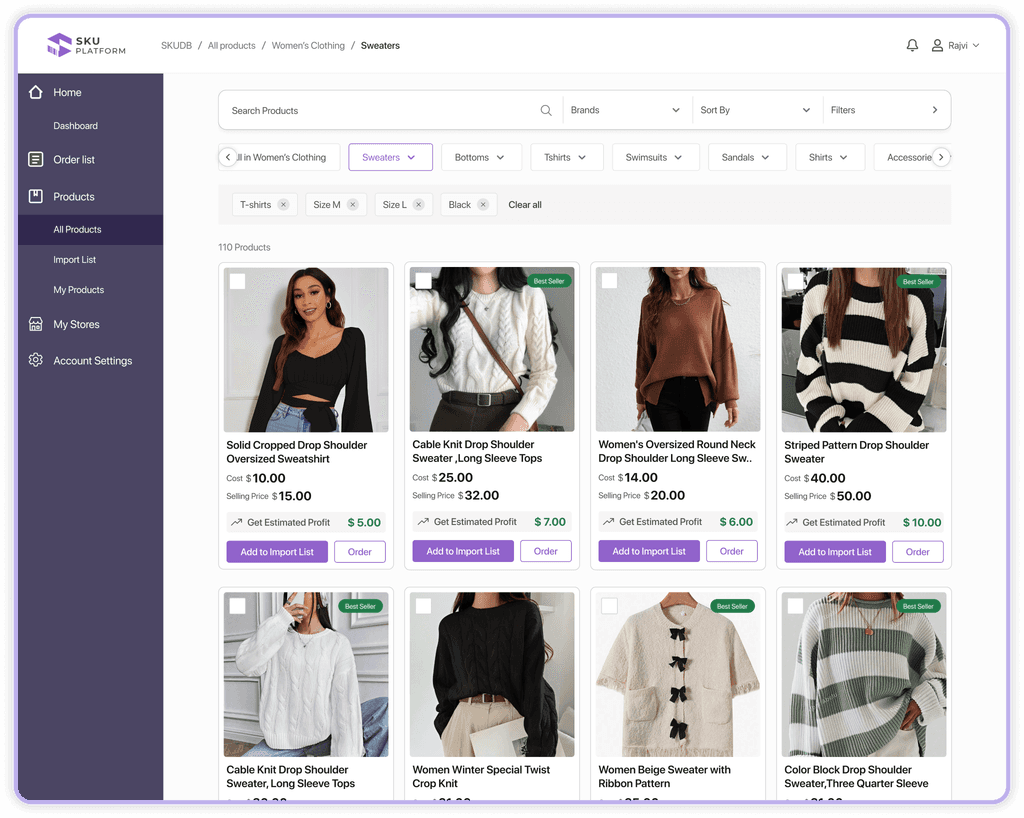
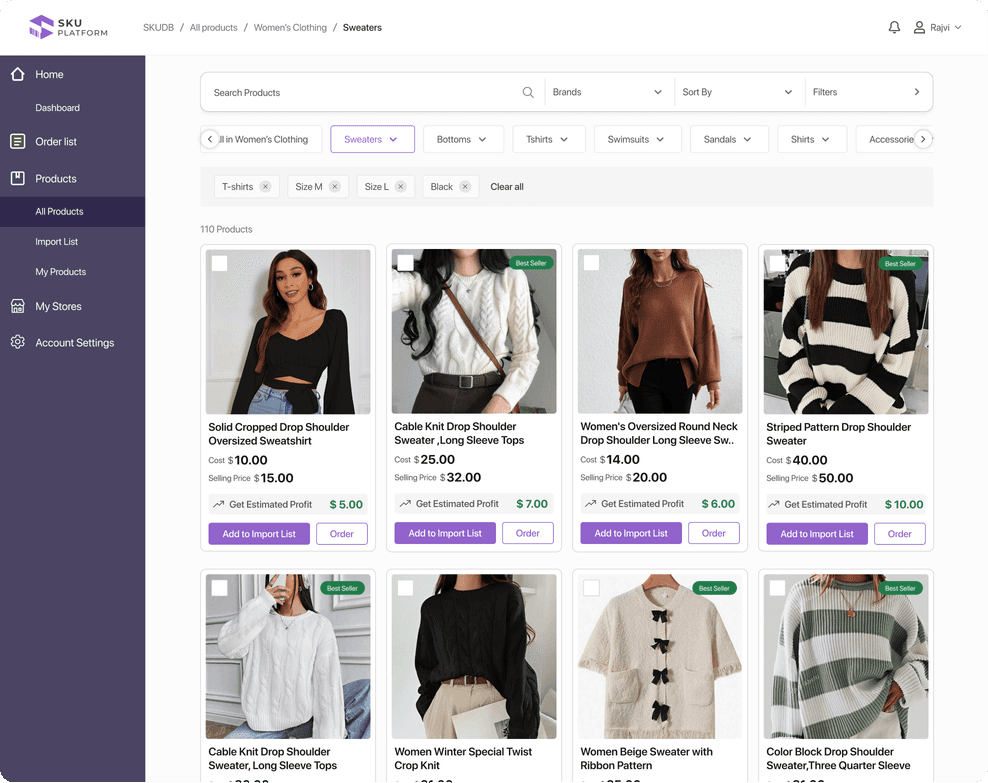
SKU dark: screenshots lose their purple borders (drawn and built-in) and sit in glass frames

diff --git a/assets/css/dark.css b/assets/css/dark.css
@@ -186,7 +186,7 @@ html.theme-switching body, html.theme-switching body * { transition: background-
    5. Paper objects (sticky notes, rule cards, polaroids) keep their paper
       colour, a touch softer, and always use dark ink #1d1b26.
    6. Screenshots, diagrams and light tables are never inverted or recoloured
-      (only their frame: every screenshot outline is light purple #b9a9e8).
+      (only their frame: screenshots sit in the glass frame, never a coloured border).
       They sit in a soft frame (rounded, thin glass edge) and are dimmed by 6%
       so a white image doesn't glare on the dark page.
    7. Light textures (paper grids, dotted patterns) become a faint white grid.
@@ -343,7 +343,6 @@ html.theme-switching body, html.theme-switching body * { transition: background-
 [data-theme="dark"] .sk-band { background: #34324f; isolation: isolate; }
 [data-theme="dark"] .sk-band img { mix-blend-mode: luminosity; filter: brightness(1.55) contrast(.95); }
 /* 2. screen borders: light purple instead of deep purple */
-[data-theme="dark"] :is(.sk-framed, .sk-step img, .sk-import-note img, .sk-import-side img) { border-color: #b9a9e8; }
 [data-theme="dark"] .sk-prio-card { border-color: #b9a9e8; }
 /* 3. the store animation sits in a glass frame */
 [data-theme="dark"] .sk-gif img { padding: 14px; border-radius: 30px;
@@ -352,7 +351,7 @@ html.theme-switching body, html.theme-switching body * { transition: background-
 /* 4. the storyboard line drawings turn white (colours keep their hue) */
 [data-theme="dark"] .sk-story img { filter: invert(1) hue-rotate(180deg) brightness(.95); }
 
-/* SKU screenshots: in dark mode, the copies whose built-in frame is light purple (same picture otherwise) */
+/* SKU screenshots: in dark mode, copies with the built-in purple frame removed (same picture otherwise) */
 [data-theme="dark"] img[src$="/sku/dashboard.png"] { content: url("../media/sku/dashboard-dark.png"); }
 [data-theme="dark"] img[src$="/sku/importlist.png"] { content: url("../media/sku/importlist-dark.png"); }
 [data-theme="dark"] img[src$="/sku/myproducts.png"] { content: url("../media/sku/myproducts-dark.png"); }
@@ -366,3 +365,22 @@ html.theme-switching body, html.theme-switching body * { transition: background-
 [data-theme="dark"] img[src$="/sku/discovery-1.png"] { content: url("../media/sku/discovery-1-dark.png"); }
 [data-theme="dark"] img[src$="/sku/discovery-2.png"] { content: url("../media/sku/discovery-2-dark.png"); }
 [data-theme="dark"] img[src$="/sku/features-nav.png"] { content: url("../media/sku/features-nav-dark.png"); }
+
+/* every SKU screenshot frame: glass instead of a purple border */
+[data-theme="dark"] img[src$="/sku/dashboard.png"],
+[data-theme="dark"] img[src$="/sku/importlist.png"],
+[data-theme="dark"] img[src$="/sku/myproducts.png"],
+[data-theme="dark"] img[src$="/sku/orders-1.png"],
+[data-theme="dark"] img[src$="/sku/orders-2.png"],
+[data-theme="dark"] img[src$="/sku/product-details.png"],
+[data-theme="dark"] img[src$="/sku/store-1.png"],
+[data-theme="dark"] img[src$="/sku/store-2.png"],
+[data-theme="dark"] img[src$="/sku/store-3.png"],
+[data-theme="dark"] img[src$="/sku/store-4.png"],
+[data-theme="dark"] img[src$="/sku/discovery-1.png"],
+[data-theme="dark"] img[src$="/sku/discovery-2.png"],
+[data-theme="dark"] img[src$="/sku/features-nav.png"],
+[data-theme="dark"] :is(.sk-framed, .sk-step img, .sk-import-note img, .sk-import-side img) {
+  box-sizing: border-box; padding: 10px; border: 1px solid rgba(255,255,255,.2) !important; border-radius: 22px;
+  background: linear-gradient(150deg, rgba(255,255,255,.16), rgba(255,255,255,.06));
+  box-shadow: inset 0 1px 0 rgba(255,255,255,.18), 0 24px 50px -30px rgba(12,10,32,.7); }

diff --git a/work/citylockers-kiosk.html b/work/citylockers-kiosk.html
@@ -12,8 +12,8 @@
 <link rel="preconnect" href="https://fonts.googleapis.com">
 <link rel="preconnect" href="https://fonts.gstatic.com" crossorigin>
 <link href="https://fonts.googleapis.com/css2?family=Libre+Baskerville:ital,wght@0,400..700;1,400..700&family=Plus+Jakarta+Sans:wght@400;500;600;700&display=swap" rel="stylesheet">
-<link rel="stylesheet" href="../assets/css/style.css?v=b61426a5">
-<link rel="stylesheet" href="../assets/css/dark.css?v=b61426a5">
+<link rel="stylesheet" href="../assets/css/style.css?v=37847c4c">
+<link rel="stylesheet" href="../assets/css/dark.css?v=37847c4c">
 <script>/* dark mode: apply the saved choice before the page draws, so there is no flash */
 try { if (localStorage.getItem("theme") === "dark") document.documentElement.dataset.theme = "dark"; } catch (e) {}</script>
 </head>
@@ -225,6 +225,6 @@ try { if (localStorage.getItem("theme") === "dark") document.documentElement.dat
     </div>
   </div>
 </footer>
-<script src="../assets/js/main.js?v=b61426a5"></script>
+<script src="../assets/js/main.js?v=37847c4c"></script>
 </body>
 </html>

diff --git a/work/sila.html b/work/sila.html
@@ -12,8 +12,8 @@
 <link rel="preconnect" href="https://fonts.googleapis.com">
 <link rel="preconnect" href="https://fonts.gstatic.com" crossorigin>
 <link href="https://fonts.googleapis.com/css2?family=Libre+Baskerville:ital,wght@0,400..700;1,400..700&family=Plus+Jakarta+Sans:wght@400;500;600;700&display=swap" rel="stylesheet">
-<link rel="stylesheet" href="../assets/css/style.css?v=b61426a5">
-<link rel="stylesheet" href="../assets/css/dark.css?v=b61426a5">
+<link rel="stylesheet" href="../assets/css/style.css?v=37847c4c">
+<link rel="stylesheet" href="../assets/css/dark.css?v=37847c4c">
 <script>/* dark mode: apply the saved choice before the page draws, so there is no flash */
 try { if (localStorage.getItem("theme") === "dark") document.documentElement.dataset.theme = "dark"; } catch (e) {}</script>
 </head>
@@ -230,6 +230,6 @@ try { if (localStorage.getItem("theme") === "dark") document.documentElement.dat
     </div>
   </div>
 </footer>
-<script src="../assets/js/main.js?v=b61426a5"></script>
+<script src="../assets/js/main.js?v=37847c4c"></script>
 </body>
 </html>

diff --git a/work/sku-platform.html b/work/sku-platform.html
@@ -12,8 +12,8 @@
 <link rel="preconnect" href="https://fonts.googleapis.com">
 <link rel="preconnect" href="https://fonts.gstatic.com" crossorigin>
 <link href="https://fonts.googleapis.com/css2?family=Libre+Baskerville:ital,wght@0,400..700;1,400..700&family=Plus+Jakarta+Sans:wght@400;500;600;700&display=swap" rel="stylesheet">
-<link rel="stylesheet" href="../assets/css/style.css?v=b61426a5">
-<link rel="stylesheet" href="../assets/css/dark.css?v=b61426a5">
+<link rel="stylesheet" href="../assets/css/style.css?v=37847c4c">
+<link rel="stylesheet" href="../assets/css/dark.css?v=37847c4c">
 <script>/* dark mode: apply the saved choice before the page draws, so there is no flash */
 try { if (localStorage.getItem("theme") === "dark") document.documentElement.dataset.theme = "dark"; } catch (e) {}</script>
 </head>
@@ -219,6 +219,6 @@ try { if (localStorage.getItem("theme") === "dark") document.documentElement.dat
     </div>
   </div>
 </footer>
-<script src="../assets/js/main.js?v=b61426a5"></script>
+<script src="../assets/js/main.js?v=37847c4c"></script>
 </body>
 </html>

diff --git a/ai-lab.html b/ai-lab.html
@@ -12,8 +12,8 @@
 <link rel="preconnect" href="https://fonts.googleapis.com">
 <link rel="preconnect" href="https://fonts.gstatic.com" crossorigin>
 <link href="https://fonts.googleapis.com/css2?family=Libre+Baskerville:ital,wght@0,400..700;1,400..700&family=Plus+Jakarta+Sans:wght@400;500;600;700&display=swap" rel="stylesheet">
-<link rel="stylesheet" href="assets/css/style.css?v=b61426a5">
-<link rel="stylesheet" href="assets/css/dark.css?v=b61426a5">
+<link rel="stylesheet" href="assets/css/style.css?v=37847c4c">
+<link rel="stylesheet" href="assets/css/dark.css?v=37847c4c">
 <script>/* dark mode: apply the saved choice before the page draws, so there is no flash */
 try { if (localStorage.getItem("theme") === "dark") document.documentElement.dataset.theme = "dark"; } catch (e) {}</script>
 </head>
@@ -101,6 +101,6 @@ try { if (localStorage.getItem("theme") === "dark") document.documentElement.dat
     </div>
   </div>
 </footer>
-<script src="assets/js/main.js?v=b61426a5"></script>
+<script src="assets/js/main.js?v=37847c4c"></script>
 </body>
 </html>

diff --git a/index.html b/index.html
@@ -12,8 +12,8 @@
 <link rel="preconnect" href="https://fonts.googleapis.com">
 <link rel="preconnect" href="https://fonts.gstatic.com" crossorigin>
 <link href="https://fonts.googleapis.com/css2?family=Libre+Baskerville:ital,wght@0,400..700;1,400..700&family=Plus+Jakarta+Sans:wght@400;500;600;700&display=swap" rel="stylesheet">
-<link rel="stylesheet" href="assets/css/style.css?v=b61426a5">
-<link rel="stylesheet" href="assets/css/dark.css?v=b61426a5">
+<link rel="stylesheet" href="assets/css/style.css?v=37847c4c">
+<link rel="stylesheet" href="assets/css/dark.css?v=37847c4c">
 <script>/* dark mode: apply the saved choice before the page draws, so there is no flash */
 try { if (localStorage.getItem("theme") === "dark") document.documentElement.dataset.theme = "dark"; } catch (e) {}</script>
 </head>
@@ -461,6 +461,6 @@ try { if (localStorage.getItem("theme") === "dark") document.documentElement.dat
     </div>
   </div>
 </footer>
-<script src="assets/js/main.js?v=b61426a5"></script>
+<script src="assets/js/main.js?v=37847c4c"></script>
 </body>
 </html>

diff --git a/about.html b/about.html
@@ -12,8 +12,8 @@
 <link rel="preconnect" href="https://fonts.googleapis.com">
 <link rel="preconnect" href="https://fonts.gstatic.com" crossorigin>
 <link href="https://fonts.googleapis.com/css2?family=Libre+Baskerville:ital,wght@0,400..700;1,400..700&family=Plus+Jakarta+Sans:wght@400;500;600;700&display=swap" rel="stylesheet">
-<link rel="stylesheet" href="assets/css/style.css?v=b61426a5">
-<link rel="stylesheet" href="assets/css/dark.css?v=b61426a5">
+<link rel="stylesheet" href="assets/css/style.css?v=37847c4c">
+<link rel="stylesheet" href="assets/css/dark.css?v=37847c4c">
 <script>/* dark mode: apply the saved choice before the page draws, so there is no flash */
 try { if (localStorage.getItem("theme") === "dark") document.documentElement.dataset.theme = "dark"; } catch (e) {}</script>
 </head>
@@ -83,6 +83,6 @@ try { if (localStorage.getItem("theme") === "dark") document.documentElement.dat
     </div>
   </div>
 </footer>
-<script src="assets/js/main.js?v=b61426a5"></script>
+<script src="assets/js/main.js?v=37847c4c"></script>
 </body>
 </html>
